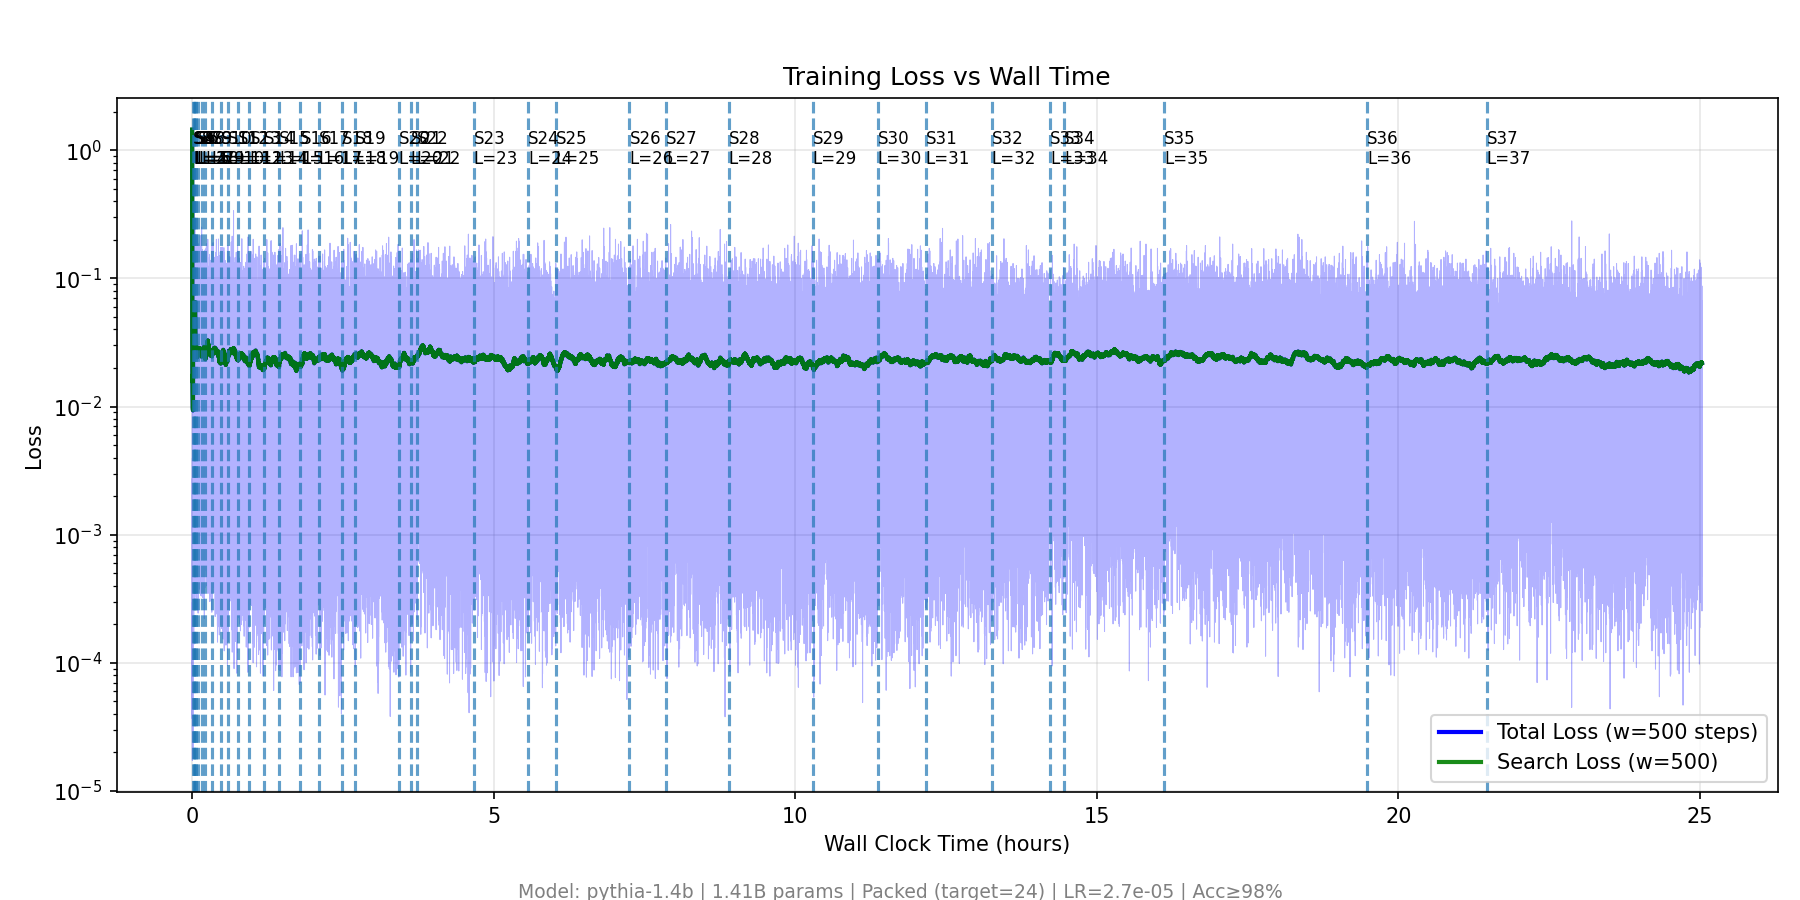
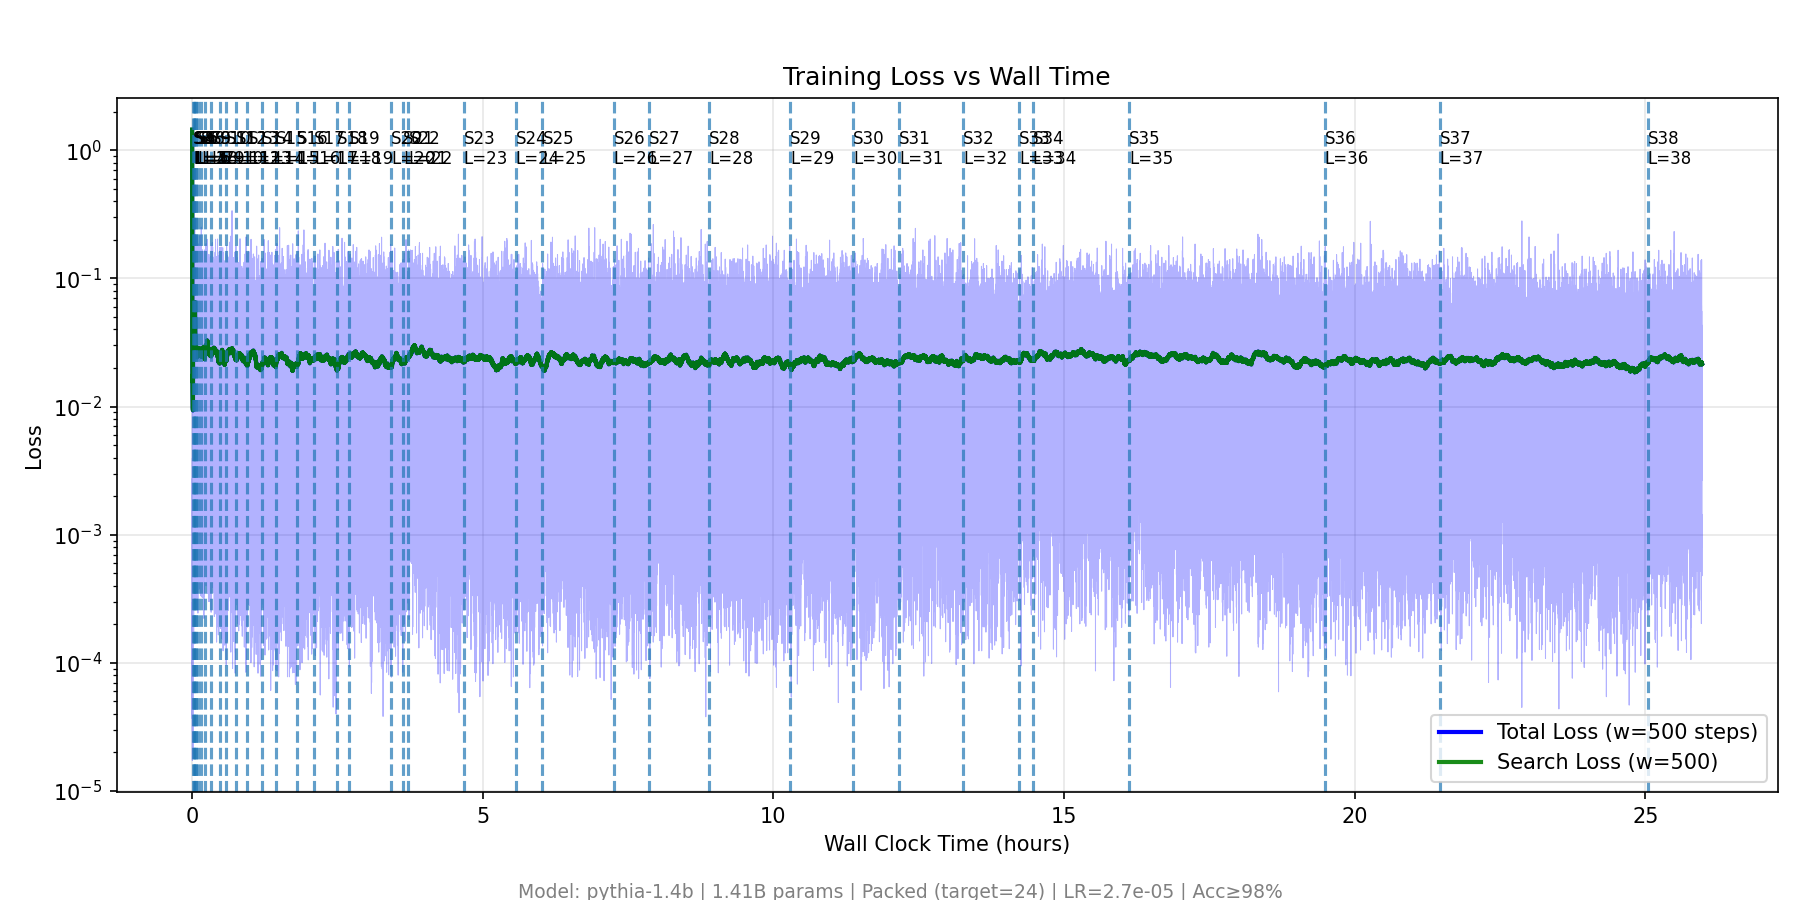
Update Experiment 2 progress (2026-10-18 23:48 UTC)

diff --git a/PROGRESS.md b/PROGRESS.md
@@ -3,7 +3,7 @@
 **Base commit:** `da7b19c` (`main`, plus `--revision` support in `nl/tuning_nl.py`)
 **Branch:** `jackierwzhang/exp2-pythia14b-revisions`
 **VM Instances:** `nl-exp2-spot-step1000`, `nl-exp2-spot-step10000`, `nl-exp2-spot-step100000`, `nl-exp2-spot-step143000` (4x `a3-highgpu-4g` Spot, 4x H100-80GB each)
-**Last updated:** 2026-10-18 23:31 UTC
+**Last updated:** 2026-10-18 23:48 UTC
 
 ## Shared Configuration
 
@@ -29,7 +29,7 @@
 | `step1000` | `step1000` | ~2.1B | `exp2_pythia14b_step1000` | Spot 4x H100 (us-east4-a) | Completed (PFLOPs cap) | 673000 | 28/96 (`L=28`) | 94.62% | 96.25% | 0.0295 | 500,310.1 | 1238.0 | 121.84h | 0.0h (Done) |
 | `step10000` | `step10000` | ~21.0B | `exp2_pythia14b_step10000` | Spot 4x H100 (us-east4-a) | Completed (PFLOPs cap) | 615500 | 28/96 (`L=28`) | 94.88% | 97.75% | 0.0298 | 500,428.3 | 1240.3 | 120.07h | 0.0h (Done) |
 | `step100000` | `step100000` | ~209.7B | `exp2_pythia14b_step100000` | Spot 4x H100 (us-east4-b) | Completed (PFLOPs cap) | 347000 | 58/96 (`L=58`) | 94.88% | 96.88% | 0.0260 | 500,114.3 | 1290.1 | 101.85h | 0.0h (Done) |
-| `step143000` | `step143000` | ~299.9B | `exp2_pythia14b_step143000` | Spot 4x H100 (us-east5-a) | Running | 132240 | 38/96 (`L=38`) | 96.50% | 98.50% | 0.0244 | 126,463.7 | 1300.6 | 25.78h | ~39.4h (stg rate, 39.6% L) / 74.0h (500k cap @ 5,048 PF/h) |
+| `step143000` | `step143000` | ~299.9B | `exp2_pythia14b_step143000` | Spot 4x H100 (us-east5-a) | Running | 133290 | 39/96 (`L=39`) | 95.12% | 97.12% | 0.0254 | 127,931.5 | 1296.7 | 26.08h | ~38.2h (stg rate, 40.6% L) / 73.9h (500k cap @ 5,033 PF/h) |
 
 ## Stage Evaluation Summary (`stage_eval_history.json`, every 8 stages)
 
